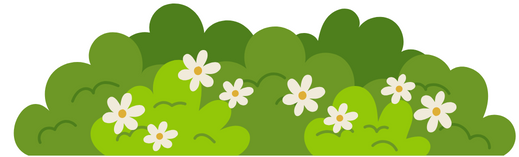
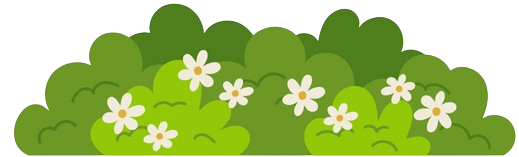
add: formiga e formigueiro posicionados acima da grama apenas em telas grandes

diff --git a/home-style.css b/home-style.css
@@ -10,10 +10,10 @@ body{
     position: fixed;
     bottom: 0;
     left: 0;
-    background-image: url(./imagens/rodape-grande.png);
+    background-image: url(./imagens/grama.png);
     background-size: cover;
     width: 110%;
-    height: 10vh;
+    height: 15vh;
     margin: 0vh 0vw -0.3vh -2vw;
 }
 @font-face {
@@ -60,6 +60,28 @@ body{
         transform: translateX(-20vw);
     }
 }
+.formigueiro{
+    background-image: url(./imagens/formigueiro.png);
+    background-repeat: no-repeat;
+    background-size: contain;
+    width: 20vw;
+    height: 20vh;
+    position: fixed;
+    bottom: 4vh;
+    left: 70%;
+    z-index: -2;
+}
+.formiga{
+    background-image: url(./imagens/formiga-folha-amarela.png);
+    background-repeat: no-repeat;
+    background-size: contain;
+    width: 15vw;
+    height: 15vh;
+    position: fixed;
+    bottom: 10vh;
+    left: 12vw;
+}
+
 @media screen and (max-width: 950px) {
     .titulo1{
         position: absolute;
@@ -68,6 +90,7 @@ body{
         transform: translate(-50%, -50%);
         font-size: 8vw;
         line-height: 0;
+        color: black;
     }
     .titulo2{
         position: absolute;
@@ -88,7 +111,14 @@ body{
         left: 75vw;
         animation: movimento-nuvem 5s infinite alternate;
     }
+    .formiga{
+        bottom: 9vh;
+    }
+    .formigueiro{
+        bottom: 5.5vh;
+    }
 }
+
 @media screen and (max-width: 800px) {
     .titulo1{
         position: absolute;
@@ -98,6 +128,7 @@ body{
         font-size: 12vw;
         line-height: 0;
         text-shadow: 0vw -0.5vw 0vw #ffb429;
+        color: purple;
     }
     .titulo2{
         position: absolute;
@@ -118,7 +149,14 @@ body{
         left: 70vw;
         animation: movimento-nuvem 5s infinite alternate;
     }
+    .formiga{
+        bottom: 7vh;
+    }
+    .formigueiro{
+        bottom: 4vh;
+    }
 }
+
 @media screen and (max-width: 450px) {
     .titulo1{
         position: absolute;
@@ -128,6 +166,7 @@ body{
         font-size: 12vw;
         line-height: 0;
         text-shadow: 0vw -0.5vw 0vw #ffb429;
+        color:blue;
     }
     .titulo2{
         position: absolute;

diff --git a/home.html b/home.html
@@ -11,5 +11,9 @@
     <div class="nuvem-baixa"></div>
     <div class="titulo1">BRAINBLOCKS:<p class="titulo2">ANT'S ADVENTURE</p></div>
     <div class="terra"></div>
+    <div class="formiga"></div>
+    <div class="formigueiro"></div>
+    <div class="arbusto"></div>
+    <div class="botao-jogar"><a class="texto-jogar" href="https://www.google.com.br/?hl=pt-BR">JOGAR</a></div>
 </body>
 </html>
